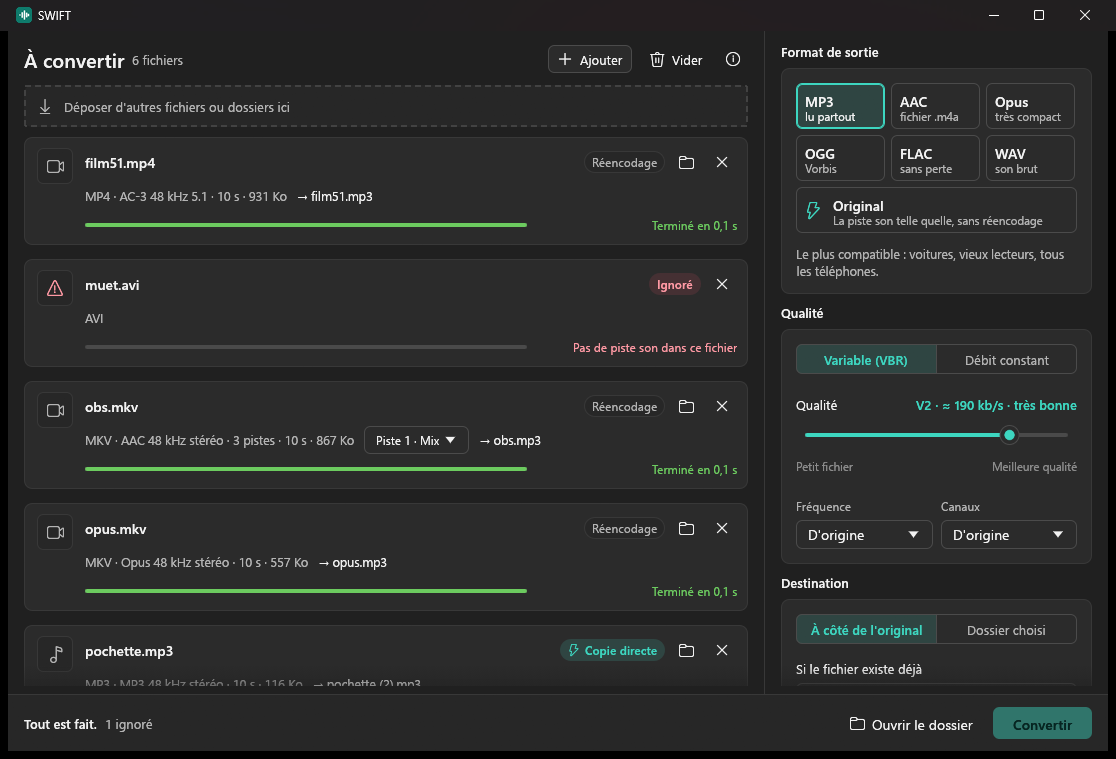
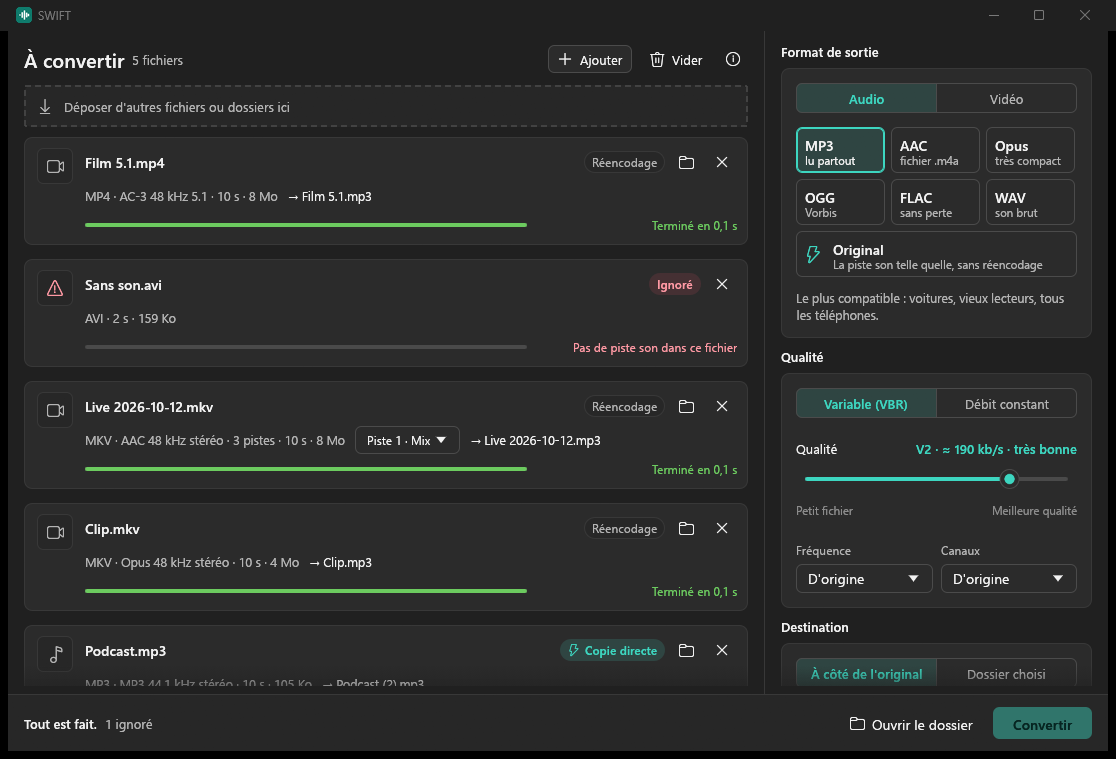
SWIFT 1.1.0 : conversion vidéo

diff --git a/README.md b/README.md
@@ -2,13 +2,15 @@
 
 **Smart Wave Interchange & File Transcoder**
 
-SWIFT sort le son de vos vidéos et convertit vos fichiers audio. On glisse les fichiers dans la
-fenêtre, on choisit le format, on clique sur Convertir. Gratuit, sans compte, sans publicité,
-rien à installer.
+SWIFT convertit vos vidéos et vos sons : sortir le son d'une vidéo, passer un MKV d'OBS en MP4,
+réduire une vidéo, changer un son de format. On glisse les fichiers dans la fenêtre, on choisit
+le format, on clique sur Convertir. Gratuit, sans compte, sans publicité, rien à installer.
 
 ![SWIFT](captures/swift-sombre.png)
 
 ## Ce qu'il fait
+
+### Le son
 
 - Vidéos (MOV, MP4, MKV, WebM, AVI, TS, FLV, WMV…) et sons (MP3, M4A, WAV, FLAC, OGG, Opus,
   WMA, AC-3…) vers MP3, AAC (M4A), Opus, OGG Vorbis, FLAC ou WAV.
@@ -20,6 +22,21 @@ rien à installer.
   par piste.
 - Tags, chapitres et pochette gardés quand le format le permet. La position GPS des vidéos de
   téléphone n'est pas recopiée.
+
+### La vidéo
+
+- Vers MP4, MKV, WebM ou MOV.
+- « Garder la vidéo » change seulement de conteneur, sans réencoder : un MKV d'OBS devient un MP4
+  en quelques secondes, avec toutes ses pistes son et leurs noms.
+- Réencodage en H.264, HEVC, AV1 ou VP9 par la carte graphique (NVIDIA, AMD ou Intel) ou par le
+  processeur : qualité au curseur, résolution, images par seconde, et la taille estimée de
+  chaque fichier avant de lancer.
+- Le HDR des vidéos de téléphone est gardé en HEVC et en AV1.
+
+![SWIFT en vidéo](captures/swift-video.png)
+
+### Partout
+
 - Plusieurs fichiers en même temps, sur tous les cœurs du processeur, en priorité basse pour ne
   pas gêner un jeu ou un stream.
 - Jamais d'écrasement sans demander.
@@ -29,8 +46,8 @@ rien à installer.
 
 ## Vitesse
 
-Mesuré sur un Ryzen 9 5900X, en comparant avec `ffmpeg` en ligne de commande compilé à partir
-des mêmes sources :
+Mesuré sur un Ryzen 9 5900X avec une RTX 4070 SUPER, en comparant avec `ffmpeg` en ligne de
+commande compilé à partir des mêmes sources, avec les mêmes réglages :
 
 | Conversion | ffmpeg | SWIFT |
 |---|---|---|
@@ -38,13 +55,18 @@ des mêmes sources :
 | Vidéo de 10 min vers MP3 V2 | 4,70 s | 4,66 s |
 | Vidéo de 10 min vers FLAC | 0,98 s | 0,80 s |
 | 48 MP3 de 4 min vers Opus | 79,7 s (un par un) | 8,0 s |
+| MKV d'OBS de 20 min (3,4 Go, 3 pistes) vers MP4, sans réencoder | 2,65 s | 2,97 s |
+| Même MKV en 1080p60 vers HEVC par la carte graphique | 159,5 s | 160,5 s |
+| Même MKV vers HEVC en 720p30 | 54,9 s | 55,8 s |
+| 2 min en 1080p60 vers AV1 par le processeur | 33,9 s | 34,8 s |
 
-Le programme pèse 14 Mo une fois dézippé et s'ouvre en 0,3 s.
+Le programme pèse 38 Mo une fois dézippé (15 Mo en zip) et s'ouvre en 0,3 s.
 
 ## Télécharger
 
-Dans les [Releases](../../releases) : télécharger `SWIFT-x.y.z-windows-x64.zip`, le dézipper où
-vous voulez, lancer `SWIFT.exe`. Windows 10 ou 11, 64 bits.
+Dans les [Releases](../../releases) : télécharger `SWIFT-x.y.z-portable.zip`, le dézipper où
+vous voulez, lancer `SWIFT.exe`. Windows 10 ou 11, 64 bits. Le zip `SWIFT-Licences-x.y.z.zip`
+contient seulement le LISEZMOI et les licences, qui sont aussi dans le zip portable.
 
 Pour tout retirer : couper « Clic droit dans l'Explorateur » dans les options, puis supprimer le
 dossier de SWIFT et le dossier `%APPDATA%\SWIFT`. Le fichier LISEZMOI explique le détail.
@@ -60,9 +82,9 @@ téléchargé est suspect par défaut.
 Pour le lancer quand même : cliquer sur « Informations complémentaires », puis sur « Exécuter
 quand même ». Cela n'arrive qu'une fois.
 
-Vous pouvez vérifier vous-même ce que vous téléchargez : chaque version publie l'empreinte
-SHA-256 de son zip. Dans PowerShell, `Get-FileHash .\SWIFT-x.y.z-windows-x64.zip` doit donner
-la même.
+Vous pouvez vérifier vous-même ce que vous téléchargez : la page de chaque version donne
+l'empreinte SHA-256 de son zip. Dans PowerShell, `Get-FileHash .\SWIFT-x.y.z-portable.zip` doit
+donner la même.
 
 Les mises à jour automatiques sont signées : SWIFT n'installe que ce que j'ai signé avec ma clé,
 et vérifie l'empreinte de chaque fichier avant de l'utiliser.
@@ -75,9 +97,11 @@ pas publié. Le texte complet est dans [LICENCE.txt](LICENCE.txt).
 ## Composants
 
 SWIFT convertit avec [FFmpeg](https://ffmpeg.org) 9.0.2 (LGPL 2.1), avec
-[LAME](https://lame.sourceforge.io) 4.0 pour le MP3 (LGPL), et Opus, Ogg et Vorbis de
-[Xiph](https://xiph.org) (BSD). Ces bibliothèques sont dans des DLL séparées, que l'on peut
-remplacer. Leurs sources exactes sont fournies sur simple demande à [Oka@Akiden.fr](mailto:Oka@Akiden.fr), pendant au
-moins trois ans. Le détail est dans [COMPOSANTS.md](COMPOSANTS.md).
+[LAME](https://lame.sourceforge.io) 4.0 pour le MP3 (LGPL), Opus, Ogg et Vorbis de
+[Xiph](https://xiph.org) (BSD), et pour la vidéo SVT-AV1, libvpx et dav1d (BSD) et les
+encodeurs des cartes graphiques NVIDIA, AMD et Intel. Aucune de ces bibliothèques n'est sous
+GPL. Elles sont dans des DLL séparées, que l'on peut remplacer. Leurs sources exactes sont
+fournies sur simple demande à [Oka@Akiden.fr](mailto:Oka@Akiden.fr), pendant au moins trois ans.
+Le détail est dans [COMPOSANTS.md](COMPOSANTS.md).
 
 Fait par Oka.

diff --git a/COMPOSANTS.md b/COMPOSANTS.md
@@ -5,19 +5,28 @@ dans le dossier `LICENCES` du zip.
 
 | Composant | Version | Licence | Où |
 |---|---|---|---|
-| [FFmpeg](https://ffmpeg.org) | 9.0.2 | LGPL 2.1 ou plus | `avcodec-63.dll`, `avformat-63.dll`, `avutil-61.dll`, `swresample-7.dll` |
+| [FFmpeg](https://ffmpeg.org) | 9.0.2 | LGPL 2.1 ou plus | `avcodec-63.dll`, `avformat-63.dll`, `avutil-61.dll`, `swresample-7.dll`, `swscale-10.dll` |
 | [LAME](https://lame.sourceforge.io) | 4.0 | LGPL 2 | dans `avcodec-63.dll` |
 | [Opus](https://opus-codec.org) | 1.6.1 | BSD 3 clauses | dans `avcodec-63.dll` |
 | [Ogg](https://xiph.org/ogg/) et [Vorbis](https://xiph.org/vorbis/) | 1.3.6 et 1.3.7 | BSD 3 clauses | dans `avcodec-63.dll` |
+| [SVT-AV1](https://gitlab.com/AOMediaCodec/SVT-AV1) | 4.2.0 | BSD 3 clauses « Clear », brevets AOMedia | dans `avcodec-63.dll` |
+| [libvpx](https://www.webmproject.org) | 1.17.0 | BSD 3 clauses | dans `avcodec-63.dll` |
+| [dav1d](https://code.videolan.org/videolan/dav1d) | 1.5.4 | BSD 2 clauses | dans `avcodec-63.dll` |
+| [libvpl](https://github.com/intel/libvpl) (Intel) | 2.17.0 | MIT | dans `avcodec-63.dll` |
+| En-têtes NVENC (NVIDIA) et AMF (AMD) | 12.0 et 1.5.3 | MIT | dans `avcodec-63.dll` |
 | zlib | 1.3.2 | zlib | dans `avformat-63.dll` |
-| Runtime MinGW-w64 | | ZPL, MIT | dans les DLL |
+| Runtime MinGW-w64, winpthreads | | ZPL, MIT | dans les DLL |
+| Runtime C++ de GCC | | GPL 3 avec l'exception des bibliothèques d'exécution de GCC | dans les DLL |
 | Bibliothèques Rust de l'interface (egui, winit…) | | MIT, Apache 2.0 et proches | dans `SWIFT.exe` |
 
-FFmpeg est compilé sans aucune partie GPL ni non libre, avec seulement ce qui sert au son. Les
-quatre DLL peuvent être remplacées par une autre version compatible de FFmpeg.
+FFmpeg est compilé sans aucune partie GPL ni non libre, avec ce qui sert au son et à la vidéo.
+Les cinq DLL peuvent être remplacées par une autre version compatible de FFmpeg. L'exception des
+bibliothèques d'exécution de GCC permet d'inclure son runtime C++ dans n'importe quel logiciel.
+L'encodage H.264 au processeur passe par l'encodeur de Windows (Media Foundation).
 
 ## Sources
 
-Les sources exactes de FFmpeg, LAME, Opus, Ogg et Vorbis utilisées pour chaque version de SWIFT,
-avec le script qui les compile, sont fournies sur simple demande à [Oka@Akiden.fr](mailto:Oka@Akiden.fr), pendant au
-moins trois ans après la dernière diffusion de cette version.
+Les sources exactes de FFmpeg et des bibliothèques ci-dessus utilisées pour chaque version de
+SWIFT, avec le script qui les compile, sont fournies sur simple demande à
+[Oka@Akiden.fr](mailto:Oka@Akiden.fr), pendant au moins trois ans après la dernière diffusion de
+cette version.
